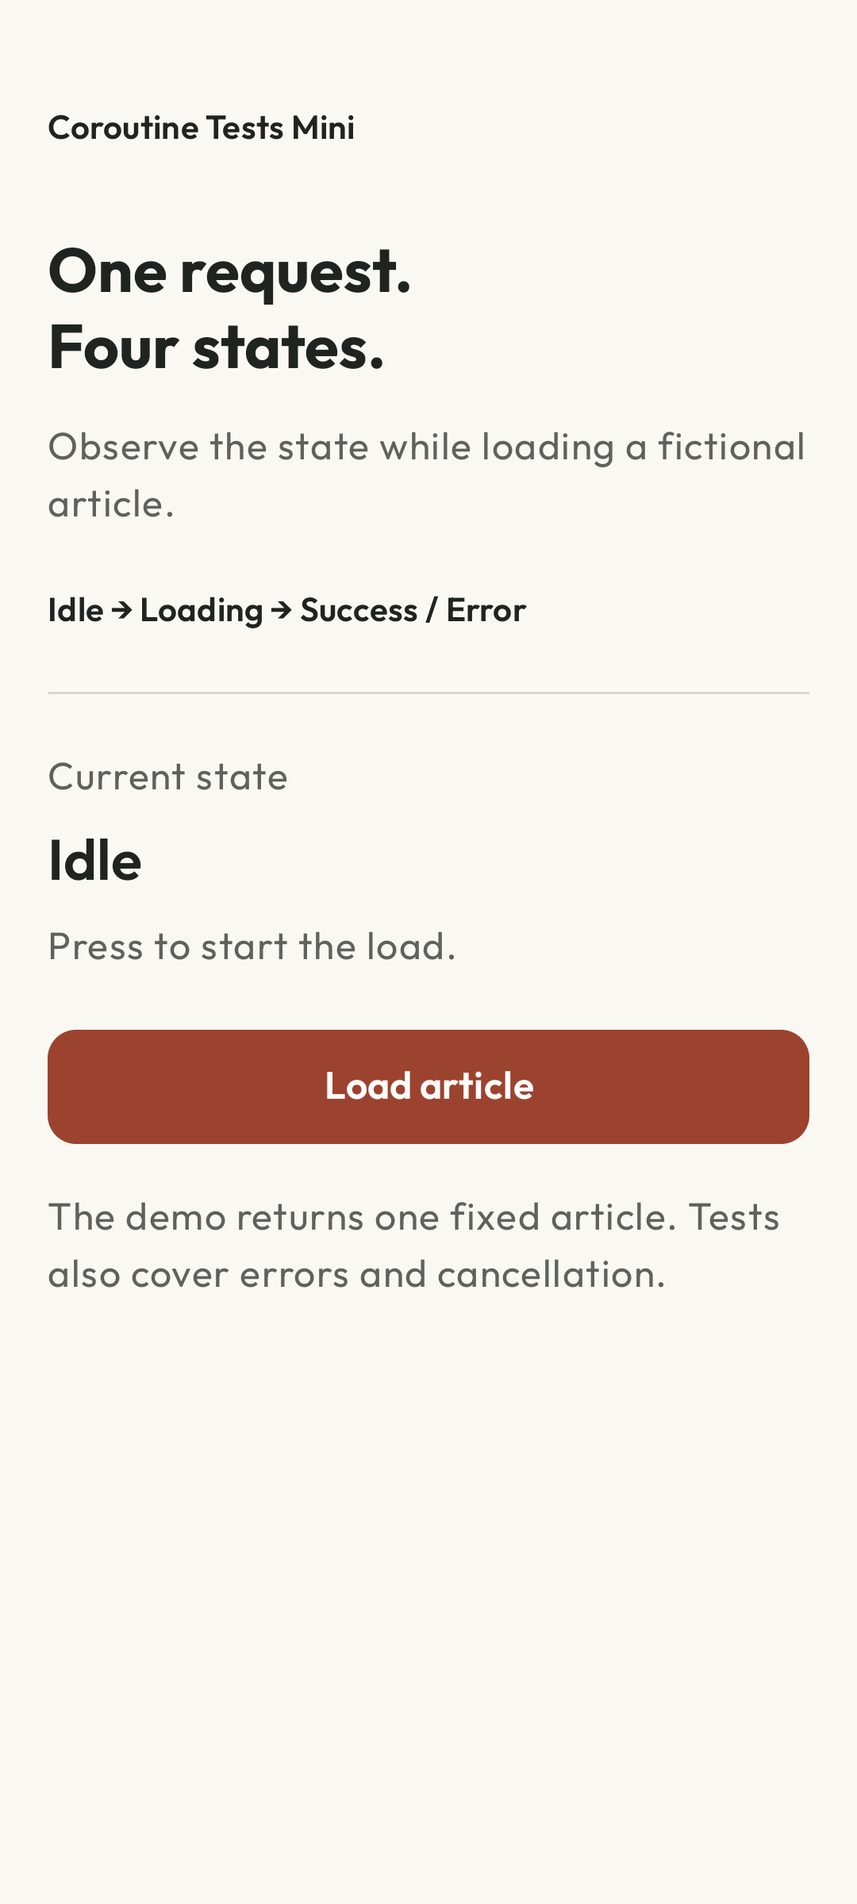
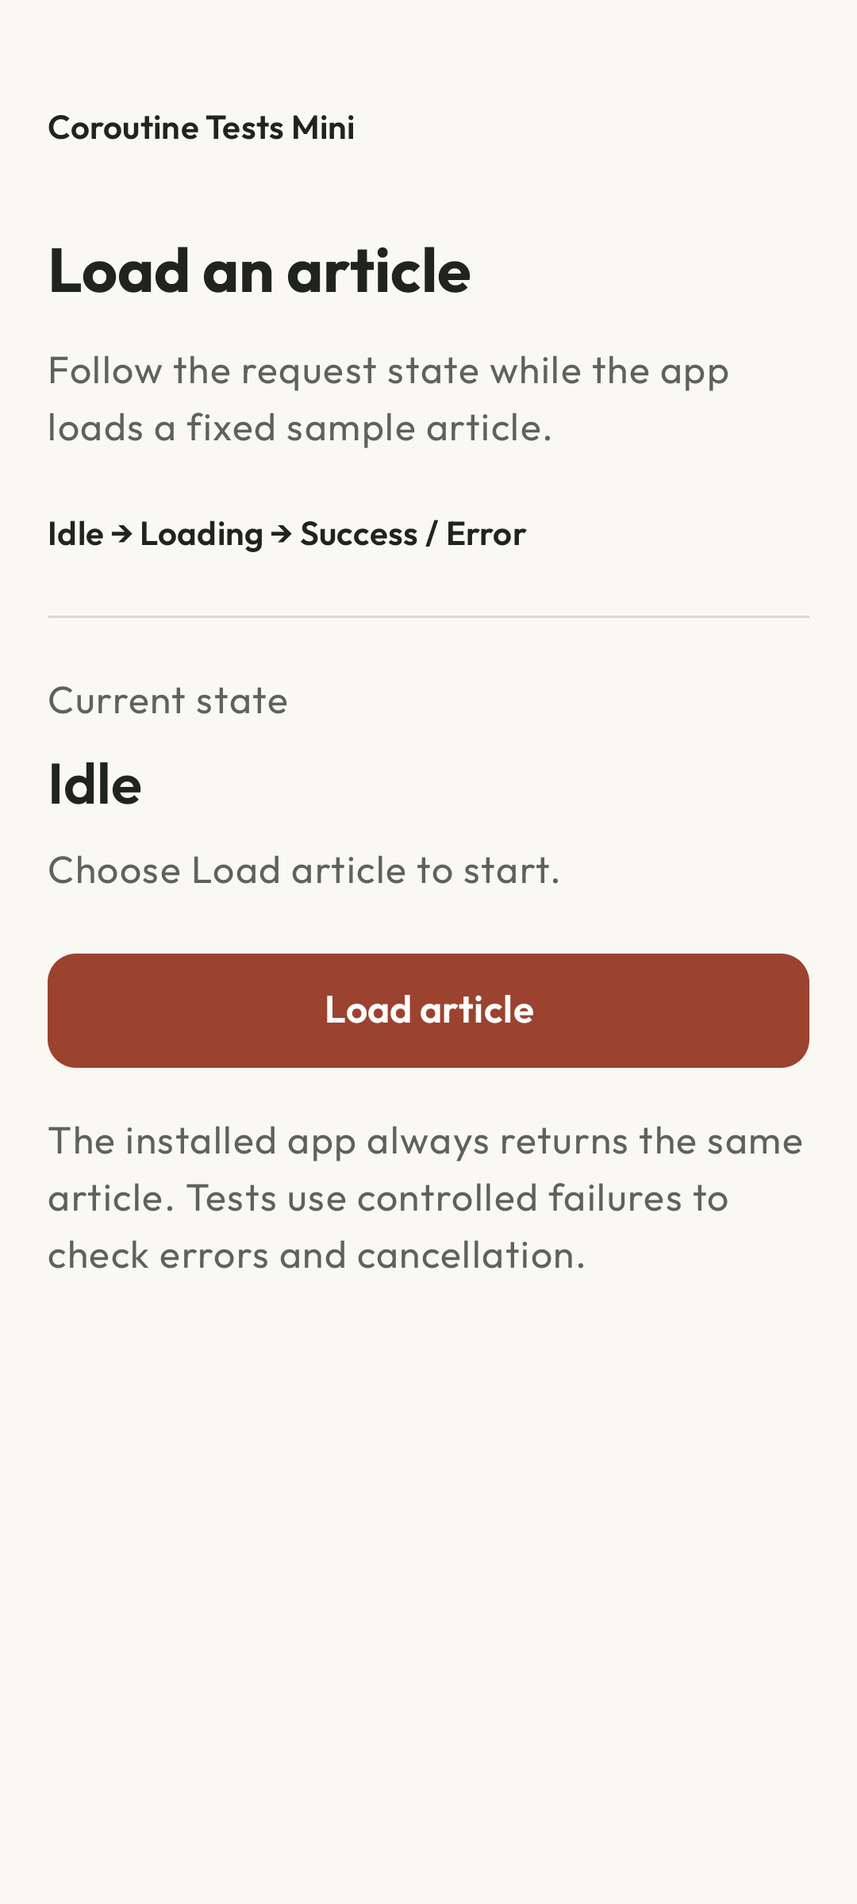
docs: clarify lab experiments, teaching notes and verified scope

Changed region(s): [[0.0306, 0.125, 0.9472, 0.6875], [0.55, 0.4375, 0.6417, 0.4688]]

diff --git a/README.es.md b/README.es.md
@@ -1,124 +1,48 @@
-[English](README.md) · **Español** · [![CI](https://github.com/navalcode/android-coroutines-tests-mini/actions/workflows/checks.yml/badge.svg)](https://github.com/navalcode/android-coroutines-tests-mini/actions/workflows/checks.yml)
+# Coroutines Tests Mini
 
-# android-coroutines-tests-mini
+[English](README.md) · [CI](https://github.com/navalcode/android-coroutines-tests-mini/actions/workflows/checks.yml)
 
-Proyecto Android pequeño para ver cómo testear coroutines y `StateFlow` en local, sin meter más piezas de las necesarias.
+Una pequeña app Android con Views y una suite de tests de coroutines. Carga un artículo fijo, observa Idle → Loading → Success y vuelve a cargarlo. El botón queda deshabilitado durante la petición; el ViewModel conserva el resultado al recrear la actividad.
 
-La app permite solicitar un artículo fijo y observar `Idle`, `Loading` y `Success`. El contrato incluye `Error`, ejercitado con un fake en los tests. El ejemplo conecta una pantalla pequeña con pruebas de estado, tiempo virtual y cancelación.
+<img src="docs/images/screen-es.png" width="300" alt="Coroutines Tests Mini ejecutado en un emulador Android">
 
-## Usar la pantalla
+## Qué puedes probar
 
-<img src="docs/images/screen-es.png" alt="Coroutines Tests Mini con su estado inicial y acción de carga en un emulador Android" width="300">
+1. Pulsa **Cargar artículo**. La pantalla muestra Cargando de inmediato y deshabilita la acción.
+2. Espera al artículo fijo y pulsa **Volver a cargar**.
+3. Recrea la actividad para comprobar que el ViewModel conserva el resultado. Reiniciar el proceso crea otro ViewModel; la app no persiste el artículo.
 
-Una pantalla desplazable separa estado, resultado y acción principal. La respuesta de carga es inmediata y **el botón queda deshabilitado hasta terminar esa petición**. Éxito ofrece Volver a cargar; la recreación conserva el resultado del ViewModel. Los cambios de estado usan una región accesible de anuncio cortés. Hay recursos españoles con fallback inglés; el artículo fijo original conserva su inglés.
+La fuente instalada siempre responde correctamente tras una breve espera. Los tests provocan errores y cancelación con repositorios controlados. Otro ViewModel demuestra la sustitución de consultas obsoletas; la app no tiene buscador ni backend de red. El artículo original está en inglés en ambos idiomas de la interfaz.
 
-La app instalada devuelve siempre ese artículo estático tras un breve retardo. Los tests JVM ejercitan errores, cancelación y sustitución de búsquedas obsoletas, sin simular una red ni añadir controles a la pantalla. Ver [decisiones de pantalla](DESIGN.md) y [avisos de terceros](THIRD_PARTY.md).
+## Compilar y ejecutar
 
-## Qué hay dentro
-
-- Una `Activity` mínima para que el proyecto sea Android de verdad
-- Un `ViewModel` con `StateFlow<ArticleUiState>`
-- Un `UseCase`
-- Un `Repository`
-- Una implementación estática para la app
-- Una fake para tests
-- Varios tests locales sobre coroutines, `Flow` y cancelación
-
-## Estructura
-
-```text
-app/src/main/java/com/example/coroutinetests/
-├── MainActivity.kt
-├── data/
-│   ├── ArticleRepository.kt
-│   └── StaticArticleRepository.kt
-├── domain/
-│   ├── Article.kt
-│   └── LoadArticleUseCase.kt
-└── presentation/
-    ├── ArticleUiState.kt
-    └── ArticleViewModel.kt
-
-app/src/test/java/com/example/coroutinetests/
-├── domain/LoadArticleUseCaseTest.kt
-├── presentation/ArticleViewModelTest.kt
-├── rules/MainDispatcherRule.kt
-└── testdoubles/FakeArticleRepository.kt
-```
-
-## Por dónde leerlo
-
-Si quieres entenderlo rápido, este orden suele funcionar bien:
-
-1. `ArticleUiState`: define los estados que ve la UI.
-2. `ArticleViewModel`: enseña el flujo principal.
-3. `ArticleViewModelTest`: aquí está casi toda la gracia del ejemplo.
-4. `FakeArticleRepository`: explica cómo se simula éxito, error y delay sin mocks.
-5. `MainDispatcherRule`: deja claro cómo se controla `Dispatchers.Main` en tests.
-
-## Qué está intentando enseñar
-
-### El dispatcher no debería estar hardcodeado
-
-El `UseCase` recibe un dispatcher por constructor. Eso permite que en producción uses `Dispatchers.IO` y en tests uses un `TestDispatcher` controlado.
-
-### `runTest` cambia la forma de pensar el tiempo
-
-Aquí no hay `Thread.sleep()`. Los tests avanzan la ejecución con `runCurrent()` y `advanceUntilIdle()`. Esa es la parte que suele desbloquear muchos tests inestables.
-
-### `StateFlow` se comprueba como estado
-
-La UI no necesita saber todos los detalles internos de la coroutine. Necesita saber qué estado tiene ahora mismo. Por eso el foco está en `uiState.value`.
-
-### `collectLatest` sirve cuando lo último invalida lo anterior
-
-El ejemplo de búsqueda usa `collectLatest` para cancelar una búsqueda en curso cuando entra una query más nueva. Es un patrón muy habitual cuando la entrada del usuario cambia rápido.
-
-## Tests que merece la pena mirar
-
-### `LoadArticleUseCaseTest`
-
-Tiene dos casos:
-
-- Devuelve el artículo cuando el repositorio responde bien
-- Propaga el error cuando el repositorio falla
-
-Sirve para ver el caso más pequeño posible antes de subir al `ViewModel`.
-
-### `ArticleViewModelTest`
-
-Tiene cuatro comprobaciones:
-
-- Arranca en `Idle`
-- Pasa de `Loading` a `Success`
-- Pasa de `Loading` a `Error`
-- Mantiene la cancelación fuera del estado de error
-
-Es el archivo que mejor resume la intención del proyecto.
-
-### `ObserveSavedArticlesUseCaseTest`
-
-Muestra un caso simple de `Flow` con varias emisiones y comprobación del orden esperado.
-
-### `ArticleSearchViewModelTest`
-
-Muestra el caso de `collectLatest`: si entra una segunda query antes de terminar la primera, la primera se cancela y solo cuenta la última.
-
-## Ejecutarlo
-
-```bash
-./gradlew :app:testDebugUnitTest
-./gradlew :app:assembleDebug
-```
-
-## Verificación del escaparate
-
-Comprobado localmente el 29 de octubre de 2026: **nueve tests JVM y tres recorridos de MainActivity real en emulador API 37**, además de lint y builds debug/tests con JDK 17. Los recorridos comprueban Cargando inmediato/botón deshabilitado, éxito confirmado, recreación y una nueva petición tras finalizar la anterior. Los tres pasan también con texto al 150% en 360×800 dp. El recorrido de carga pasa además en vertical inglés/español, oscuro español y horizontal inglés. Las imágenes son capturas reales del emulador.
-
-Lint no informa errores y conserva diez avisos de versiones/target. La CI enlazada ejecuta JVM, lint y build debug; los recorridos nativos son locales. Para ejecutarlos, usar un único emulador/dispositivo API 33+ (la regla de idioma utiliza la API de locale por aplicación):
+Usa JDK 17, Android SDK 36 y API 24 o superior para instalar. Abre el proyecto en Android Studio o configura el SDK en un `local.properties` sin seguimiento. Desde este directorio:
 
 ```sh
-./gradlew :app:assembleDebugAndroidTest :app:connectedDebugAndroidTest
+./gradlew :app:testDebugUnitTest :app:lintDebug :app:assembleDebug
+./gradlew :app:installDebug
 ```
 
-La app declara API 24+, pero la revisión no acredita todos los Android soportados, TalkBack, dispositivos físicos ni aprobación de tienda. El debug contiene unos 12,14 MB DEX sin comprimir y no contiene librerías nativas que alinear. Falta metadata R8 y la minificación release sigue desactivada; no se acredita release optimizada ni tasa de optimización. El wrapper verifica SHA-256 de Gradle 8.13. Se conservan licencias y atribuciones existentes.
+El wrapper de Gradle 8.13 verifica el SHA-256 de su distribución. Las dependencias están fijadas en `gradle/libs.versions.toml`. Las reglas de idioma de los tests nativos requieren API 33+; sustituye `DEVICE_ID` por un serial concreto:
+
+```sh
+ANDROID_SERIAL=DEVICE_ID ./gradlew :app:connectedDebugAndroidTest
+```
+
+## Leer el código
+
+1. [ArticleUiState.kt](app/src/main/java/com/example/coroutinetests/presentation/ArticleUiState.kt) y [ArticleViewModel.kt](app/src/main/java/com/example/coroutinetests/presentation/ArticleViewModel.kt): estado y ciclo de vida de la petición.
+2. [ArticleViewModelTest.kt](app/src/test/java/com/example/coroutinetests/presentation/ArticleViewModelTest.kt): Idle, Loading/Success, fallo y cancelación.
+3. [LoadArticleUseCaseTest.kt](app/src/test/java/com/example/coroutinetests/domain/LoadArticleUseCaseTest.kt) y [FakeArticleRepository.kt](app/src/test/java/com/example/coroutinetests/testdoubles/FakeArticleRepository.kt): resultados, fallos y esperas controladas.
+4. [MainDispatcherRule.kt](app/src/test/java/com/example/coroutinetests/rules/MainDispatcherRule.kt): instala y restablece el dispatcher Main de prueba.
+5. [ArticleSearchViewModelTest.kt](app/src/test/java/com/example/coroutinetests/presentation/ArticleSearchViewModelTest.kt): `collectLatest` cancela la búsqueda sustituida.
+
+Los tests avanzan el reloj del scheduler con `runCurrent` y `advanceUntilIdle`, sin esperas de reloj real. `ObserveSavedArticlesUseCaseTest` comprueba varias emisiones Flow. La cancelación se propaga sin convertirse en un estado de error.
+
+[Notas de testing](docs/TESTING.es.md): inyección del dispatcher, tiempo virtual y casos de prueba.
+
+## Comprobaciones y límites
+
+La suite contiene **9 tests JVM y 3 nativos**. [Verificación](docs/VERIFICATION.md), en inglés, recoge las ejecuciones, capturas, avisos de auditoría y la diferencia entre cobertura nativa local y CI. [DESIGN.md](DESIGN.md) explica la interfaz.
+
+Hay recursos españoles con inglés de respaldo. No se atribuye validación física, certificación de accesibilidad, release optimizada ni publicación en tiendas. Se conservan licencias y atribuciones de fuentes/dependencias en [avisos de terceros](THIRD_PARTY.md).

diff --git a/README.md b/README.md
@@ -1,49 +1,48 @@
 # Coroutines Tests Mini
 
-[Español](README.es.md) · [![CI](https://github.com/navalcode/android-coroutines-tests-mini/actions/workflows/checks.yml/badge.svg)](https://github.com/navalcode/android-coroutines-tests-mini/actions/workflows/checks.yml)
+[Español](README.es.md) · [CI](https://github.com/navalcode/android-coroutines-tests-mini/actions/workflows/checks.yml)
 
-A small Android example for testing coroutines and `StateFlow` without a large framework. A minimal Views activity requests an article while the presentation moves through `Idle`, `Loading`, `Success` or `Error`.
+A small Android Views app and coroutine test suite. Load a fixed article, watch Idle → Loading → Success and try loading it again. The button stays disabled while the request runs; activity recreation retains the ViewModel result.
 
-The main learning material is the implementation and its tests: dispatcher injection, fake repositories, virtual time, cancellation and latest-query behavior.
+<img src="docs/images/screen-en.png" width="300" alt="Coroutines Tests Mini running in an Android emulator">
 
-## Read in this order
+## Try it
 
-1. `ArticleUiState` and `ArticleViewModel` under `app/src/main/java/com/example/coroutinetests/presentation/`.
-2. `ArticleViewModelTest`: initial state, loading, success, error and cancellation.
-3. `LoadArticleUseCaseTest` and `FakeArticleRepository`: controlled results and delays without a mocking framework.
-4. `MainDispatcherRule`: install/reset a scheduler-controlled `Dispatchers.Main`.
-5. `ObserveSavedArticlesUseCaseTest`: several Flow emissions and their order.
-6. `ArticleSearchViewModelTest`: `collectLatest` cancels an obsolete search when a newer query arrives.
+1. Select **Load article**. The screen shows Loading immediately and disables the action.
+2. Wait for the fixed article, then select **Load again**.
+3. Recreate the activity to check that the ViewModel retains its result. A process restart starts a new ViewModel; the app does not persist the article.
 
-Tests use `runTest`, `runCurrent` and `advanceUntilIdle` rather than wall-clock sleeps. Cancellation remains cancellation instead of becoming an error state. The repository boundary supports a static implementation in the app and fakes in tests.
+The installed source always succeeds after a short delay. Errors and cancellation use controlled repositories in tests. The separate search ViewModel demonstrates replacing an obsolete query; this app has no search UI or network backend. The original article fixture is English in both interface languages.
 
-## Use the screen
+## Build and run
 
-<img src="docs/images/screen-en.png" alt="Coroutines Tests Mini showing its idle state and load action on an Android emulator" width="300">
-
-A scrollable screen separates the state name, result and primary action. Loading feedback appears immediately and **the action stays disabled until that request finishes**. Success offers Load again; recreation preserves the ViewModel result. State changes have a polite accessibility live region. Spanish resources and an English fallback cover the controls; the original fixed article fixture remains in English.
-
-The installed sample always returns that static article after a short delay. Errors, cancellation and replacing obsolete searches are exercised by JVM tests, rather than a fake network or extra UI controls. See [screen decisions](DESIGN.md) and [third-party notices](THIRD_PARTY.md).
-
-## Run
-
-Requires JDK 17, Android SDK 36 and API 24+ for installation. Open this repository in Android Studio or configure the SDK using untracked `local.properties`.
+Use JDK 17, Android SDK 36 and API 24+ for installation. Open the project in Android Studio or configure the SDK in an untracked `local.properties`. From this directory:
 
 ```sh
 ./gradlew :app:testDebugUnitTest :app:lintDebug :app:assembleDebug
 ./gradlew :app:installDebug
 ```
 
-The Gradle 8.13 wrapper verifies its distribution SHA-256. The longer [Spanish guide](README.es.md) explains the examples and test decisions.
-
-## Validation scope
-
-Locally checked on 29 October 2026: **nine JVM tests and three real MainActivity journeys on an API 37 emulator**, plus lint and debug/test APK builds with JDK 17. Native tests check immediate Loading/disabled action, confirmed success, recreation and starting another request after completion. All three also pass at 150% text on 360×800 dp. The load journey additionally passes in English/Spanish portrait, Spanish dark mode and English landscape. Images above are actual emulator captures.
-
-Lint reports no errors and ten existing target/dependency-version warnings. The linked CI runs JVM tests, lint and a debug build; native journeys are local, not CI device coverage. To run them, use a single API 33+ emulator/device (the test locale rule uses the platform per-app locale API):
+The Gradle 8.13 wrapper verifies its distribution SHA-256. Dependencies are pinned in `gradle/libs.versions.toml`. Native test locale rules require API 33+; replace `DEVICE_ID` with an explicit serial:
 
 ```sh
-./gradlew :app:assembleDebugAndroidTest :app:connectedDebugAndroidTest
+ANDROID_SERIAL=DEVICE_ID ./gradlew :app:connectedDebugAndroidTest
 ```
 
-The app declares API 24+, but this review does not establish every supported Android version, TalkBack, physical-device behavior or store approval. The debug APK has about 12.14 MB of uncompressed DEX and no native libraries to align. R8 metadata is absent and release minification remains disabled, so no optimized release or optimization rate is established. Existing project/dependency licenses are preserved.
+## Read the code
+
+1. [ArticleUiState.kt](app/src/main/java/com/example/coroutinetests/presentation/ArticleUiState.kt) and [ArticleViewModel.kt](app/src/main/java/com/example/coroutinetests/presentation/ArticleViewModel.kt): state and request ownership.
+2. [ArticleViewModelTest.kt](app/src/test/java/com/example/coroutinetests/presentation/ArticleViewModelTest.kt): Idle, Loading/Success, failure and cancellation.
+3. [LoadArticleUseCaseTest.kt](app/src/test/java/com/example/coroutinetests/domain/LoadArticleUseCaseTest.kt) and [FakeArticleRepository.kt](app/src/test/java/com/example/coroutinetests/testdoubles/FakeArticleRepository.kt): results, failures and controlled delays.
+4. [MainDispatcherRule.kt](app/src/test/java/com/example/coroutinetests/rules/MainDispatcherRule.kt): install/reset the test Main dispatcher.
+5. [ArticleSearchViewModelTest.kt](app/src/test/java/com/example/coroutinetests/presentation/ArticleSearchViewModelTest.kt): `collectLatest` cancels a superseded search.
+
+Tests advance scheduler time with `runCurrent` and `advanceUntilIdle`, without wall-clock sleeps. `ObserveSavedArticlesUseCaseTest` checks several Flow emissions. Cancellation remains cancellation rather than becoming an error state.
+
+[Spanish testing notes](docs/TESTING.es.md) explain dispatcher injection, virtual time and the test cases.
+
+## Checks and limits
+
+The suite contains **9 JVM tests and 3 native tests**. [Verification](docs/VERIFICATION.md) records dated runs, screenshots, audit warnings and the difference between local native coverage and hosted CI. [DESIGN.md](DESIGN.md) explains the interface.
+
+Spanish resources have an English fallback. No physical-device, formal accessibility, optimized-release or store result is claimed. Existing licenses and font/dependency attribution remain in [third-party notices](THIRD_PARTY.md).

diff --git a/docs/VERIFICATION.md b/docs/VERIFICATION.md
@@ -1,0 +1,53 @@
+# Verification record
+
+30 October 2026. Editorial revision of bilingual resources, README, design notes and teaching text. No domain, ViewModel, effect ownership, dependencies or workflow code changed. Core scenario messages and probe identifiers remain stable. Resource-backed instructions and observer labels are revised.
+
+## Current local results
+
+- JDK 17.0.14, SDK 36; all Gradle tasks rerun on the final application sources.
+- **9 JVM tests**, zero failures/errors/skips.
+- Lint: **0 errors, 10 warnings**. Existing target/dependency warnings remain; no warning suppression was added.
+- Debug and Android-test APK builds passed. This revision does not build or validate an optimized release.
+
+Dedicated API 37 emulator, 360 × 800 dp:
+
+| Run | Result |
+|---|---|
+| English, 100% text | 3/3 native tests passed |
+| 150% text, qaLanguage=es | 3/3 native tests passed |
+| Spanish MainActivity capture, 100% text | 1/1 selected journey passed |
+
+The locale rule applies to every test in this project’s native suite. The complete enlarged-text run uses Spanish.
+
+
+The app declares a lower minimum SDK, while native locale rules use API 33+ and the local device is API 37. A minimum-SDK declaration does not prove testing on that version. No physical-device, TalkBack or formal accessibility certification is claimed.
+
+## Commands
+
+From the repository root:
+
+```sh
+./gradlew :app:testDebugUnitTest :app:lintDebug :app:assembleDebug :app:assembleDebugAndroidTest
+ANDROID_SERIAL=DEVICE_ID ./gradlew :app:connectedDebugAndroidTest
+```
+
+Replace `DEVICE_ID` with the serial of a dedicated test emulator. For opt-in language/captures, install the app/test APK and use the Android runner:
+
+```sh
+ANDROID_SERIAL=DEVICE_ID ./gradlew :app:installDebug :app:installDebugAndroidTest
+adb -s DEVICE_ID shell am instrument -w -r -e qaLanguage es -e captureScreenshots true com.example.coroutinetests.test/androidx.test.runner.AndroidJUnitRunner
+```
+
+The capture argument is optional. It writes test PNGs inside this demo’s private files directory, retrievable with `adb exec-out run-as`. Locale rules restore the previous per-app locale after a test. Use a disposable emulator for viewport/text-scale changes and restore its settings afterward. Screenshots are executed frames, without pixel editing.
+
+The three MainActivity journeys check immediate Loading/disabled action, confirmed success, recreation and loading again. The installed fixture always succeeds. UI error text now identifies the retry action, but failures/cancellation are verified with controlled JVM repositories, not a forced runtime storage/network failure. Article state is retained during activity recreation, not persisted after process death.
+
+## Artifact audit
+
[1 lines of base64/hex data omitted]
+
+The advisory audit measured **12.14 MB uncompressed DEX**. No native libraries are present, so native alignment checks are empty. R8 percentage metadata is absent. An overall tool pass does not establish an optimization rate, official Play policy, signing or store approval. The audit did not remove dependencies or alter any artifact.
+
+## Hosted CI and earlier evidence
+
+The linked workflow runs JVM tests, lint and the debug build. Native journeys here are local; a green badge does not imply hosted device coverage. Check the workflow against the published commit. Earlier 29 October runs, including dark/landscape checks and a repaired scroll-ownership regression, remain historical evidence and are not silently attributed to this revision.

diff --git a/docs/TESTING.es.md b/docs/TESTING.es.md
@@ -1,0 +1,48 @@
+# Pruebas de coroutines y StateFlow
+
+## Inyectar el dispatcher para controlar el test
+
+El `UseCase` recibe un dispatcher por constructor. Eso permite que en producción uses `Dispatchers.IO` y en tests uses un `TestDispatcher` controlado.
+
+## Controlar el tiempo con `runTest`
+
+Aquí no hay `Thread.sleep()`. Los tests avanzan la ejecución con `runCurrent()` y `advanceUntilIdle()`. Así se controla cuándo se ejecutan las coroutines en lugar de esperar al reloj real.
+
+## Comprobar el estado de `StateFlow`
+
+La UI no necesita saber todos los detalles internos de la coroutine. Necesita saber qué estado tiene ahora mismo. Por eso el foco está en `uiState.value`.
+
+## Sustituir una búsqueda con `collectLatest`
+
+El ejemplo de búsqueda usa `collectLatest` para cancelar una búsqueda en curso cuando entra una consulta más reciente. El test comprueba que solo esta última aporta el resultado.
+
+## Casos de prueba
+
+### `LoadArticleUseCaseTest`
+
+Tiene dos casos:
+
+- Devuelve el artículo cuando el repositorio responde bien
+- Propaga el error cuando el repositorio falla
+
+Comprueba el contrato del caso de uso antes del estado de presentación.
+
+### `ArticleViewModelTest`
+
+Tiene cuatro comprobaciones:
+
+- Arranca en `Idle`
+- Pasa de `Loading` a `Success`
+- Pasa de `Loading` a `Error`
+- Mantiene la cancelación fuera del estado de error
+
+Permite comprobar los cambios de estado y la propagación de cancelación.
+
+### `ObserveSavedArticlesUseCaseTest`
+
+Muestra un caso simple de `Flow` con varias emisiones y comprobación del orden esperado.
+
+### `ArticleSearchViewModelTest`
+
+Muestra el caso de `collectLatest`: si entra una segunda query antes de terminar la primera, la primera se cancela y solo cuenta la última.
+

diff --git a/DESIGN.md b/DESIGN.md
@@ -16,6 +16,6 @@ The result is a polite live accessibility region with related text grouped for s
 
 TextAppearance selects each Outfit weight explicitly. A global theme font would override those role-specific choices in Views; runtime checks confirm title weight 700 and state weight 600 at both standard and 150% text.
 
-## Checked scope
+## Verification
 
-Nine JVM tests; three real MainActivity journeys at API 37, also at 150% text/360×800 dp; selected load journey in EN/ES portrait, ES dark and EN landscape. Actual screenshots are emulator output. Lint has no errors and ten existing target/version notices. CI runs JVM/lint/debug build; native checks are local. API 24 is the declared minimum, not a newly tested lower-platform result. Debug has no native libraries; release minification remains disabled. No TalkBack, physical-device, optimized-release or store claim is made.
+See [VERIFICATION.md](docs/VERIFICATION.md) for dated test/build results, native journeys, screenshots and limits. The current editorial review replaces vague headings with specific experiments and actions. API names and stable trace messages remain identifiable.
